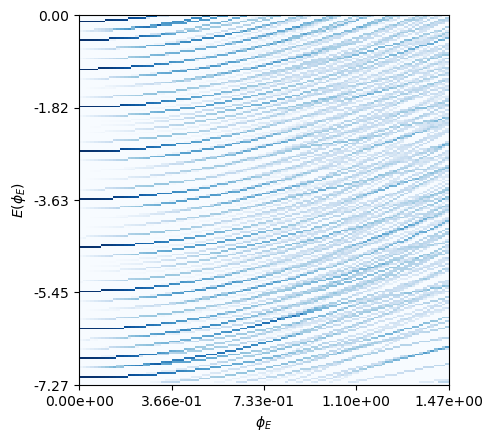
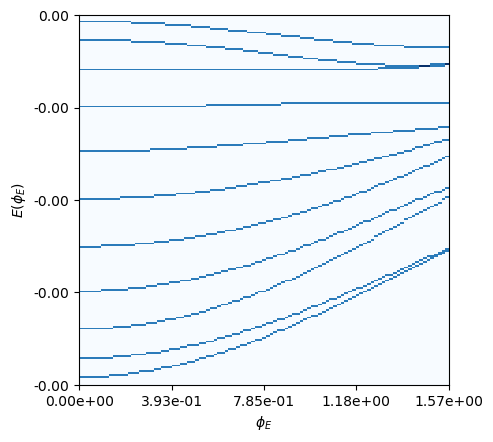
Fixed the line integral for Dirac fll tbm.

diff --git a/floquet-landau-levels-qhe/dirac-model/fll-dirac-tbm.py b/floquet-landau-levels-qhe/dirac-model/fll-dirac-tbm.py
@@ -21,18 +21,18 @@ m = m_e # [MeV/c^2]
 v_f = 1E6 # [m/s] fermi velocity for graphene
 h = 2*v_f*hbar/(3*a) # [eV] hopping energy for graphene based on formula? This value is close to the 2.8 eV
 h = 2.8 # [eV] hopping energy for graphene is 2.8 eV
-k = 0*pi/(9*a) # [m^-1] Momentum space wavenumber Probably shouldn't be zero for graphene
+k = 0.0*pi/(3*a) # [m^-1] Momentum space wavenumber Probably shouldn't be zero for graphene
 ka = k*a
 
 # Laser parameters
 hw = 191e-3 # [meV]
-Emax = 3e7 # V/m
+Emax = 5e8 # V/m
 d = 100E-9 # [m] Spatial period of the electric field of laser in x direction, make sure d>>a and not necessarily integer multiple
 K = 2*pi/d # Spatial wavenumber of laser light in x direction
 
 # Matrix cutoffs
 # Number of modes
-mc = 1
+mc = 2
 Nm = 2*mc+1
 nhw = np.arange(-mc,mc+1,1)*hw
 
@@ -43,7 +43,7 @@ Nr = 2*rc+1
 xj = np.linspace(-xm, xm, Nr)
 
 phimin = 0
-phimax = 1e9 # unitless
+#phimax = 1e9 # unitless
 phimax = Emax*a/hw # unitless
 
 nphi = 100
@@ -60,28 +60,27 @@ c2 = np.cos(2*tau)
 # Coordinates for respective hopping terms
 dx = (np.sqrt(3)/2) * np.array([1,0,1,1,1,0])
 dy = (1/2) * np.array([1,2,1,-1,-1,2])
-xavg = (np.sqrt(3)/4) * np.array([1,2,3,3,5,4])
+xavg = (np.sqrt(3)*a/4) * np.array([1,2,3,3,5,4])
 Adotdl = np.zeros( (6, Nr, np.size(tau)) )
 for i in range(6):
-  Adotdl[i] = -dx[i]*s1 + 0.5 * np.outer(dy[i]*np.sin(K*(xj+a*xavg[i])), c2)
+  Adotdl[i] = -dx[i]*s1 + 0.5 * np.outer(dy[i]*np.sin(K*(xj+xavg[i])), c2)
 
 # Compute the indices for H_n and form the block matrix
 def create_H_n(_n, _phi, _ka):
-  hjla1b1 = -h* np.trapz(np.exp(1.0j * _phi * (Adotdl[0] - _n*tau) ), x=tau, axis=1) / (2*pi)
-  hjlb1a2 = -h* np.trapz(np.exp(1.0j * _phi * (Adotdl[1] - _n*tau) ), x=tau, axis=1) / (2*pi)
-  hjla2b2 = -h* np.trapz(np.exp(1.0j * _phi * (Adotdl[2] - _n*tau) ), x=tau, axis=1) / (2*pi)
+  hjla1b1 = -h* np.trapz(np.exp(1.0j * (_phi * Adotdl[0] - _n*tau) ), x=tau, axis=1) / (2*pi)
+  hjlb1a2 = -h* np.trapz(np.exp(1.0j * (_phi * Adotdl[1] - _n*tau) ), x=tau, axis=1) / (2*pi)
+  hjla2b2 = -h* np.trapz(np.exp(1.0j * (_phi * Adotdl[2] - _n*tau) ), x=tau, axis=1) / (2*pi)
 
-  hjp1lb1a1 = -h* np.trapz(np.exp(1.0j * _phi * (Adotdl[3] - _n*tau) ), x=tau, axis=1) / (2*pi)
-  hjp1lb2a2 = -h* np.trapz(np.exp(1.0j * _phi * (Adotdl[4] - _n*tau) ), x=tau, axis=1) / (2*pi)
-  hjp1lp1b2a1 = -h* np.trapz(np.exp(1.0j * _phi * (Adotdl[5] - 3*_ka - _n*tau) ), x=tau, axis=1) / (2*pi)
+  hjp1lb1a1 = -h* np.trapz(np.exp(1.0j * (_phi * Adotdl[3] - _n*tau) ), x=tau, axis=1) / (2*pi)
+  hjp1lb2a2 = -h* np.trapz(np.exp(1.0j * (_phi * Adotdl[4] - _n*tau) ), x=tau, axis=1) / (2*pi)
+  hjp1lp1b2a1 = -h* np.trapz(np.exp(1.0j * (_phi * Adotdl[5] - 3*_ka - _n*tau) ), x=tau, axis=1) / (2*pi)
 
   Hb = np.zeros((4*Nr,4*Nr), dtype='complex')
 
   for xidx, xval in enumerate(xj):
     Hb[4*xidx:4*(xidx+1),4*xidx:4*(xidx+1)] = np.array([[0,hjla1b1[xidx],0,0],[0,0,hjlb1a2[xidx],0],[0,0,0,hjla2b2[xidx]],[0,0,0,0]])
-  for xidx, xval in enumerate(xj[1:]):
+  for xidx, xval in enumerate(xj[:-1]):
     Hb[4*xidx:4*(xidx+1),4*(xidx+1):4*(xidx+2)] = np.array([[0,0,0,0],[hjp1lb1a1[xidx],0,0,0],[0,0,0,0],[hjp1lp1b2a1[xidx],0,hjp1lb2a2[xidx],0]])
-  print()
 
   Hb = Hb + Hb.conj().T
   return Hb
@@ -92,7 +91,6 @@ for i, phi in enumerate(phi0):
 
   # Calculate individual block matrices for given phi0 and construct Q matrix
   # Clear the Q matrix since we will be adding to the matrix
-  #print()
   Q = np.zeros( (Nm*4*Nr,Nm*4*Nr) , dtype = 'complex')
   for n in range(Nm):
     # To construct the H_n matrices we must numerically solve the time domain Fourier transform for each matrix index

diff --git a/floquet-landau-levels-qhe/dirac-model/plot-projection-dos.py b/floquet-landau-levels-qhe/dirac-model/plot-projection-dos.py
@@ -32,6 +32,11 @@ for i, statefilename in enumerate(stateslist):
   weight[i,:] = np.diag( np.real( np.matmul( states.conj().T, states ) ) , k=0 )
 
 #wavg = np.average(weight)
+#weight = weight[0::4,:]
+#weight[:,1::4] = 0
+#weight[:,2::4] = 0
+#weight[:,3::4] = 0
+
 #wstd = np.std(weight)
 #threshold = wavg
 #weight[weight<threshold] = 0
@@ -40,8 +45,8 @@ for i, statefilename in enumerate(stateslist):
 # calculate a weighted/projected density of states as a function of phi
 Emax = np.max(energy)
 Emin = np.min(energy)
-Emax = +0.1*h
-Emin = -0.1*h
+Emax = +5.0*h
+Emin = -5.0*h
 nE = 2*nphi
 dE = (Emax-Emin)/(nE-1)
 E = np.array([i*dE+Emin for i in range(nE)])
@@ -53,7 +58,7 @@ for i in range(nphi):
   for j in range(nE-1):
     idx = np.where(np.logical_and(energy[:,i]>E[j],energy[:,i]<E[j+1]))[0]
     wE[i,j+1] = np.sum(weight[i,idx])
-    gE[i,j+1] = np.sum(idx)
+    gE[i,j+1] = np.sum(np.size(idx))
 
 #wE[wE!=0]=1
 # setup plot for weighted density of states
@@ -88,11 +93,12 @@ plt.figure()
 plt.tight_layout()
 #plt.grid("True")
 plt.xlim(0,phimax)
-plt.ylim(Emin, 0)
+#plt.ylim(Emin, 0)
 plt.xlabel('$\phi_{B_{eff}} = \phi_E$')
 plt.ylabel('$E(\phi_E)$')
 x = np.linspace(phimin,phimax,nphi)
-for i in range(4*nr):
-  plt.plot(x,energy[nr*(mc+0)+i,:])
+for i in range(4*nr*nm):
+  #plt.plot(x,energy[nr*(mc+0)+i,:])
+  plt.plot(x,energy[i,:])
 plt.savefig('./figures/line-full.pdf', bbox_inches='tight')
 plt.savefig('./figures/line-full.png', bbox_inches='tight')

diff --git a/floquet-landau-levels-qhe/2DEG-model/fll-2deg-tbm.py b/floquet-landau-levels-qhe/2DEG-model/fll-2deg-tbm.py
@@ -18,9 +18,9 @@ pi = np.pi
 
 # System parameters
 a = 0.56E-9 # GaAs/AlGaAs: a = 0.56nm
-#a = 10e-9 # [m]
+a = 10e-9 # [m]
 m = 0.067 * m_e # GaAs/AlGaAs: m = 0.067m_e
-#m = 1.0 * m_e # [MeV/c^2]
+m = 1.0 * m_e # [MeV/c^2]
 h = hbar**2 / (2 * m * a**2) # hopping value for square lattice
 print(h)
 k = 0 # Momentum space momentum value
@@ -28,7 +28,7 @@ ka = k*a
 
 # Laser parameters
 hw = 191e-3 # [191 meV]
-Emax = 5e8 # [V/m]
+Emax = 3e7 # [V/m]
 d = 100E-9 # [m] Spatial period of the electric field of laser in x direction, make sure d>>a and not necessarily integer multiple
 K = 2*pi/d # Spatial wavenumber of laser light in x direction
 
